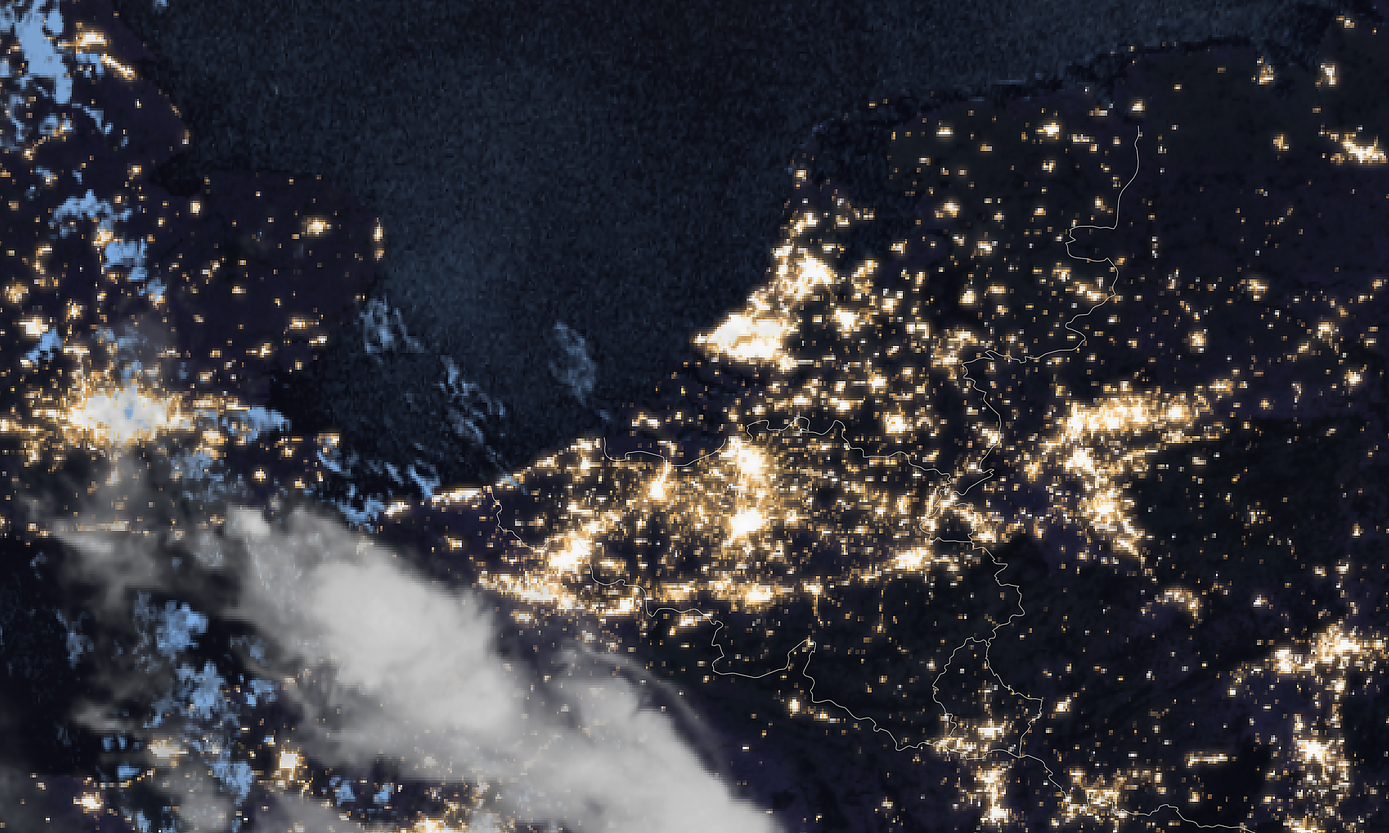
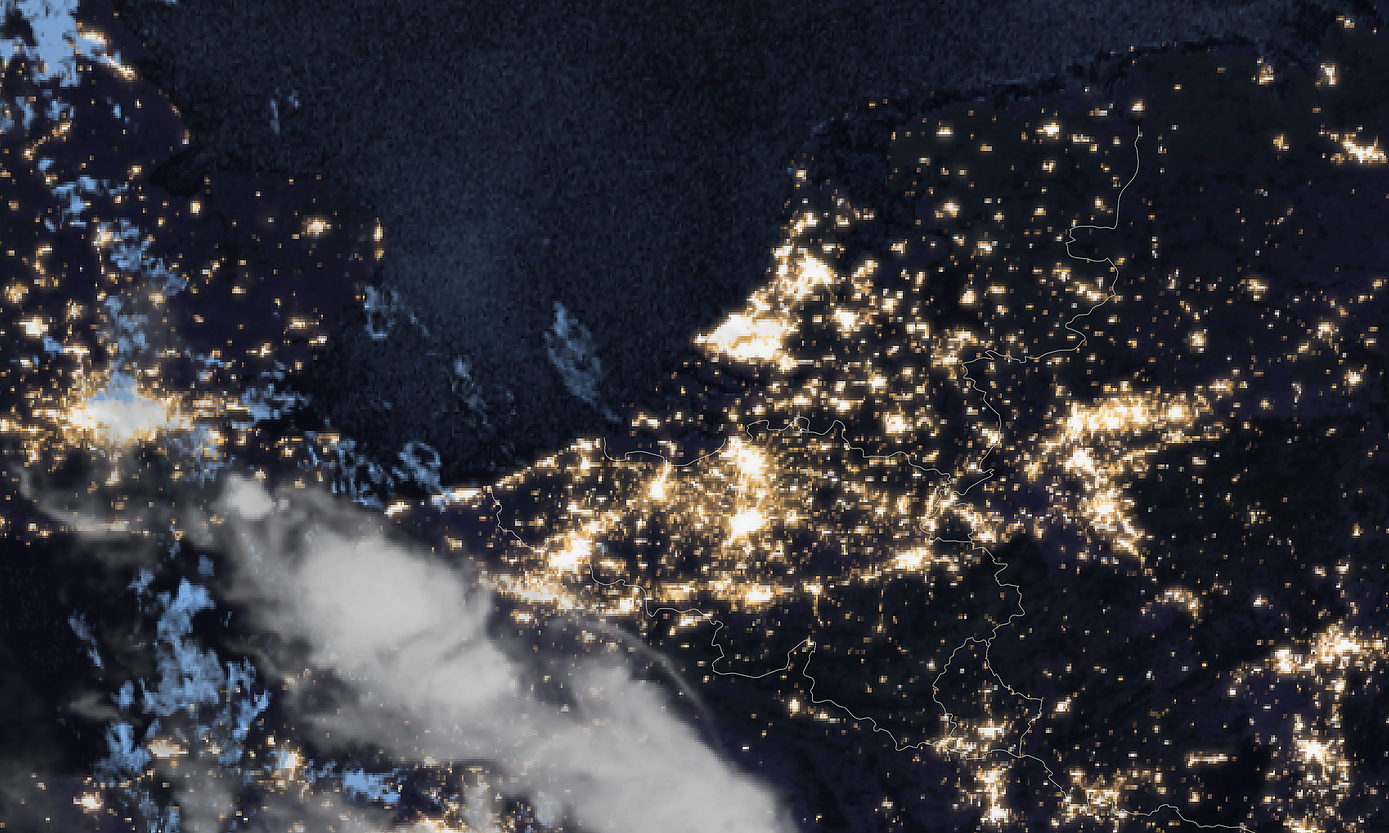
MTG Benelux satellietbeeld update 2026-05-01 22:15

diff --git a/mtg_benelux_meta.js b/mtg_benelux_meta.js
@@ -1,2 +1,2 @@
 const MTG_BENELUX_PRODUCT = "mtg_fd:rgb_geocolour";
-const MTG_BENELUX_TIJD = "2026-05-01T19:40:00Z";
+const MTG_BENELUX_TIJD = "2026-05-01T19:50:00Z";
